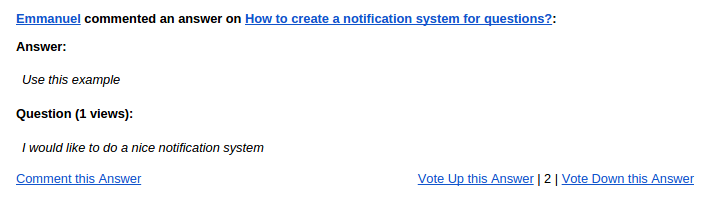
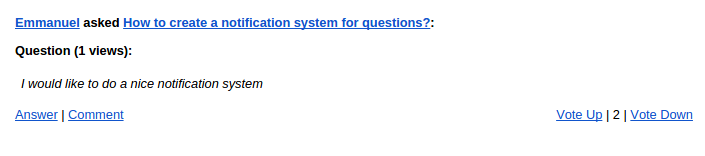
update semple question answer

diff --git a/question_answer/template.html b/question_answer/template.html
@@ -8,7 +8,7 @@
 <p>
 		<b>
 			<a style="" href="{{url}}">{{author}}</a>
-			{% if comment!="" %}answered to{% elseif answer!="" %}commented an answer on{% else %} asked {% endif %} 
+			{% if comment!="" and answer=="" %} commented on {% elseif comment!="" %} commented an answer on {% elseif answer!="" %} answered {% else %} asked {% endif %} 
 			<a style="" href="{{url}}">{{question}}</a>:
 		</b>
 </p>

diff --git a/question_answer/README.md b/question_answer/README.md
@@ -18,10 +18,74 @@
 
 ## Result
 
-![Examplel 1](question1.png)
+###Vars
+```
+"Vars" => array( 
+					"author" => "Emmanuel",
+					"url" => "http://www.example.com",
+					"question" => "How to create a notification system for questions?",
+					"questiondetail" => "I would like to do a nice notification system",
+					"answer" => "",
+					"comment" => "",
+					"view" => 1,
+					"vote" => 2
+				)
+```
+###Result
 
-(question2.png)
+![Example 1](question1.png)
 
-(question3.png)
 
-(question4.png)
+###Vars
+```
+"Vars" => array( 
+					"author" => "Emmanuel",
+					"url" => "http://www.example.com",
+					"question" => "How to create a notification system for questions?",
+					"questiondetail" => "I would like t",
+					"answer" => "Use this example",
+					"comment" => "Just commenting for fun",
+					"view" => 1,
+					"vote" => 2
+				)
+```
+###Result
+
+![Example 2]((question2.png)
+
+
+###Vars
+```
+"Vars" => array( 
+					"author" => "Emmanuel",
+					"url" => "http://www.example.com",
+					"question" => "How to create a notification system for questions?",
+					"questiondetail" => "I would like to do a nice notification system",
+					"answer" => "",
+					"comment" => "Just commenting for fun",
+					"view" => 1,
+					"vote" => 2
+				)
+```
+###Result
+
+![Example 3]((question3.png)
+
+
+###Vars
+```
+"Vars" => array( 
+					"author" => "Emmanuel",
+					"url" => "http://www.example.com",
+					"question" => "How to create a notification system for questions?",
+					"questiondetail" => "I would like to do a nice notification system",
+					"answer" => "Use this example",
+					"comment" => "",
+					"view" => 1,
+					"vote" => 2
+				)
+
+```
+###Result
+
+![Example 4]((question4.png)
